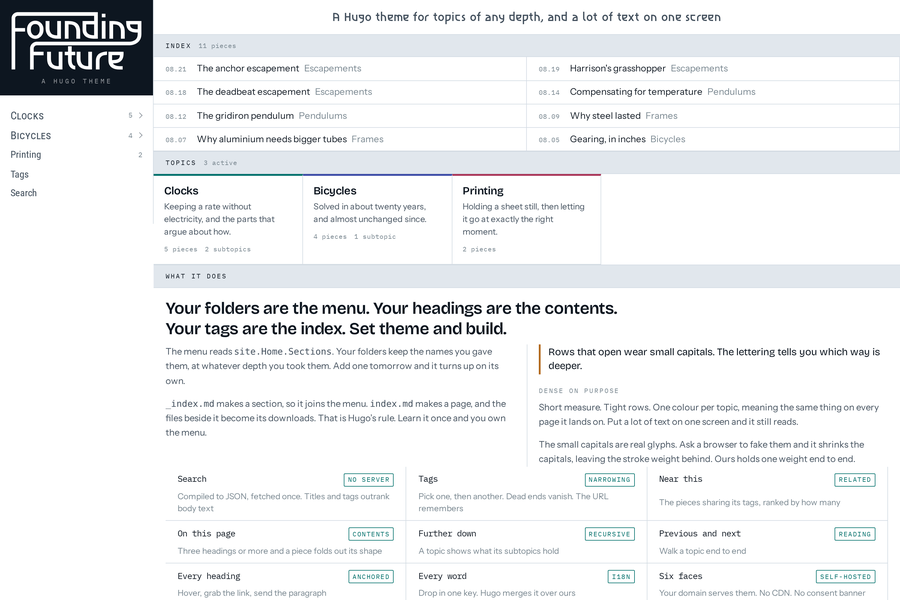
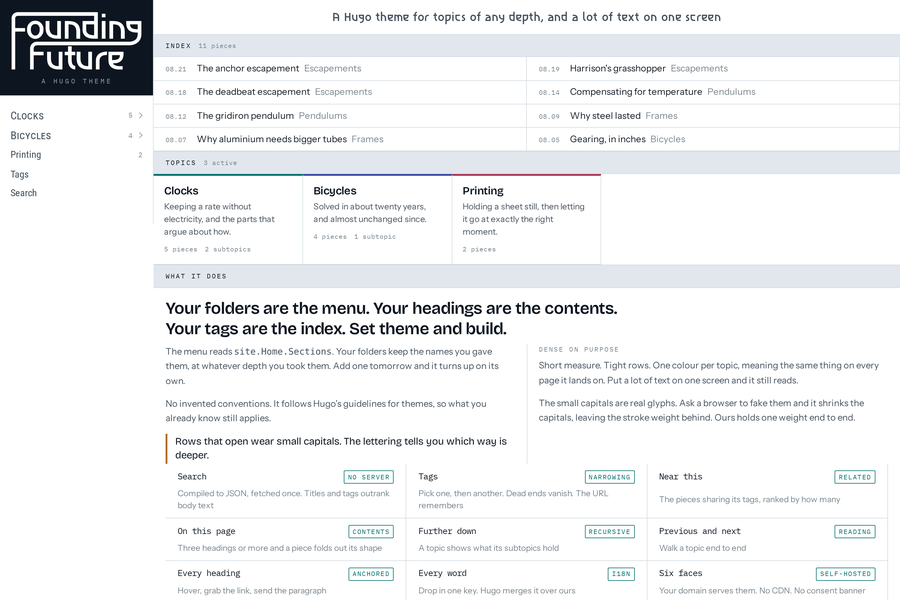
Cut the front page down to what a table cannot say
The prose announced the feature list and then the feature list said it
again, better. "Search compiles into the build. Tags narrow as you click."
Both were already rows underneath.

What is left is what the table cannot carry: what the theme is, and how to
switch it on. 153 words, from 279. The density is now visible on the page
instead of described in it.

The screenshots under images/ still show the longer draft and want redoing
once the words settle.

diff --git a/exampleSite/content/_index.md b/exampleSite/content/_index.md
@@ -2,38 +2,21 @@
 title: FoundingFuture I
 ---
 
-{{< lead >}}Your folders are the menu. Your headings are the contents. Your tags are the index. Set `theme` and build.{{< /lead >}}
+{{< lead >}}A Hugo theme for deep content. Folders become the menu, at any depth. Search, tags and related pages are built in and need no service.{{< /lead >}}
 
-{{< columns >}}
-The menu reads `site.Home.Sections`. Your folders keep the names you gave
-them, at whatever depth you took them. Add one tomorrow and it turns up on
-its own.
-
-`_index.md` makes a section, so it joins the menu. `index.md` makes a page,
-and the files beside it become its downloads. That is Hugo's rule. Learn it
-once and you own the menu.
-
-{{< pull >}}Rows that open wear small capitals. The lettering tells you which way is deeper.{{< /pull >}}
-
-#### Dense on purpose
-
-Short measure. Tight rows. One colour per topic, meaning the same thing on
-every page it lands on. Put a lot of text on one screen and it still reads.
-
-The small capitals are real glyphs. Ask a browser to fake them and it
-shrinks the capitals, leaving the stroke weight behind. Ours holds one
-weight end to end.
-{{< /columns >}}
+```toml
+theme = "foundingfuture-i"
+```
 
 {{< items >}}
-Search | no server | Compiled to JSON, fetched once. Titles and tags outrank body text
-Tags | narrowing | Pick one, then another. Dead ends vanish. The URL remembers
-Near this | related | The pieces sharing its tags, ranked by how many
-On this page | contents | Three headings or more and a piece folds out its shape
-Further down | recursive | A topic shows what its subtopics hold
-Previous and next | reading | Walk a topic end to end
-Every heading | anchored | Hover, grab the link, send the paragraph
-Every word | i18n | Drop in one key. Hugo merges it over ours
-Six faces | self-hosted | Your domain serves them. No CDN. No consent banner
-No framework | plain CSS | Two scripts, both for finding things. Pages work without them
+Search | no server | Compiled into the build. A title or a tag beats a body match
+Tags | narrowing | Click one, then another. Tags that lead nowhere disappear
+Near this | related | Other pages sharing its tags, best match first
+On this page | contents | Three headings or more gets a contents list
+Further down | recursive | A topic page lists its subtopics' pages too
+Previous and next | reading | Walk a topic end to end without going back
+Every heading | anchored | Copy a heading's link, send someone straight to it
+Every word | i18n | Change one word. Hugo merges your file over ours
+Six faces | self-hosted | Served from your domain. No CDN, no consent banner
+No framework | plain CSS | Two small scripts, both for finding things. Pages work without them
 {{< /items >}}
